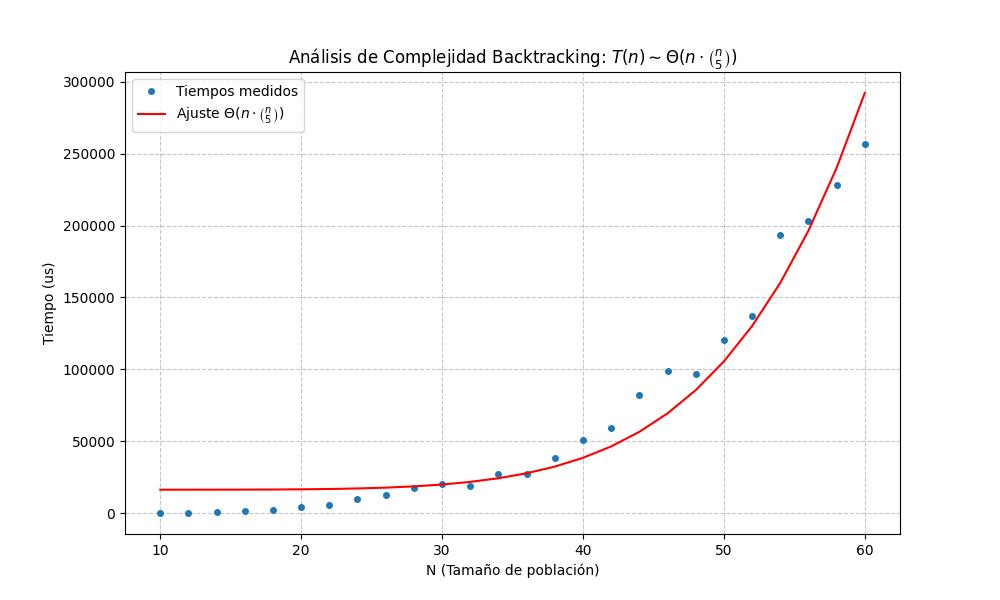
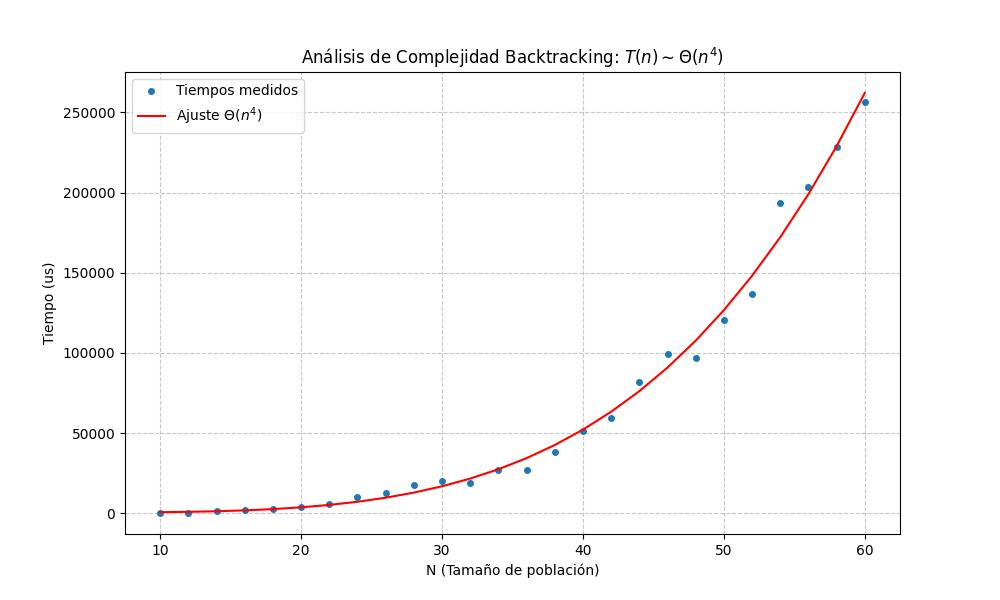
refactor: simplificado modelo de BT a n^4 para mejor ajuste

diff --git a/src/bt/regresion_bt.py b/src/bt/regresion_bt.py
@@ -5,7 +5,6 @@ import pandas as pd
 import numpy as np
 import matplotlib.pyplot as plt
 from scipy import stats
-from scipy.special import comb
 import os
 
 # Leer CSV
@@ -13,22 +12,21 @@ csv_path = "src/bt/resultados.csv"
 df = pd.read_csv(csv_path)
 df.columns = [c.strip() for c in df.columns]
 
-# El modelo teórico estimado es T(n, m) = c * n * comb(n, m) + d
-# Como M se estabiliza en 5 para n >= 10, usamos comb(n, 5) * n
-# Filtramos n >= 10 para tener M constante
+# Modelo simplificado: T(n) = c * n^4 + d
+# Justificación: Aunque el peor caso es exponencial, las podas reducen 
+# el comportamiento a un polinomio de grado bajo para m pequeño.
 df_const = df[df["N"] >= 10].copy()
-df_const["n_comb_nm"] = df_const["N"] * comb(df_const["N"], 5)
+df_const["n4"] = df_const["N"] ** 4
 
-# --- REGRESION: T(N) vs N * comb(N, 5) ---
-slope, intercept, r_value, p_value, std_err = stats.linregress(df_const["n_comb_nm"], df_const["Tiempo_Mediano_us"])
+# --- REGRESION: T(N) vs N^4 ---
+slope, intercept, r_value, p_value, std_err = stats.linregress(df_const["n4"], df_const["Tiempo_Mediano_us"])
 r2 = r_value ** 2
 
 # Resultados por consola
-print("   Regresion lineal Tiempo ~ N * comb(N, 5)")
+print("   Regresion lineal Tiempo ~ N^4")
 print(f"  Pendiente: {slope:.12f}")
 print(f"  Interseccion: {intercept:.4f}")
 print(f"  R2: {r2:.6f}")
-print(f"  p-valor: {p_value:.4e}")
 
 # Crear carpeta de assets si no existe
 os.makedirs("src/bt/assets", exist_ok=True)
@@ -36,10 +34,10 @@ os.makedirs("src/bt/assets", exist_ok=True)
 # 1. Grafico de dispersion y ajuste
 plt.figure(figsize=(10, 6))
 plt.plot(df_const["N"], df_const["Tiempo_Mediano_us"], "o", label="Tiempos medidos", markersize=4)
-plt.plot(df_const["N"], slope * df_const["n_comb_nm"] + intercept, "-", label=r"Ajuste $\Theta(n \cdot \binom{n}{5})$", color="red")
+plt.plot(df_const["N"], slope * df_const["n4"] + intercept, "-", label=r"Ajuste $\Theta(n^4)$", color="red")
 plt.xlabel("N (Tamaño de población)")
 plt.ylabel("Tiempo (us)")
-plt.title(r"Análisis de Complejidad Backtracking: $T(n) \sim \Theta(n \cdot \binom{n}{5})$")
+plt.title(r"Análisis de Complejidad Backtracking: $T(n) \sim \Theta(n^4)$")
 plt.legend()
 plt.grid(True, linestyle="--", alpha=0.7)
 plt.savefig("src/bt/assets/regresion_bt.jpg")
@@ -48,7 +46,7 @@ plt.close()
 # 2. Grafico con escala logaritmica
 plt.figure(figsize=(10, 6))
 plt.scatter(df_const["N"], df_const["Tiempo_Mediano_us"], label="Tiempos medidos", marker="o", s=20)
-plt.plot(df_const["N"], slope * df_const["n_comb_nm"] + intercept, label=r"Ajuste $\Theta(n \cdot \binom{n}{5})$", color="red")
+plt.plot(df_const["N"], slope * df_const["n4"] + intercept, label=r"Ajuste $\Theta(n^4)$", color="red")
 plt.xscale("log", base=10)
 plt.yscale("log", base=10)
 plt.xlabel("log(N)")
